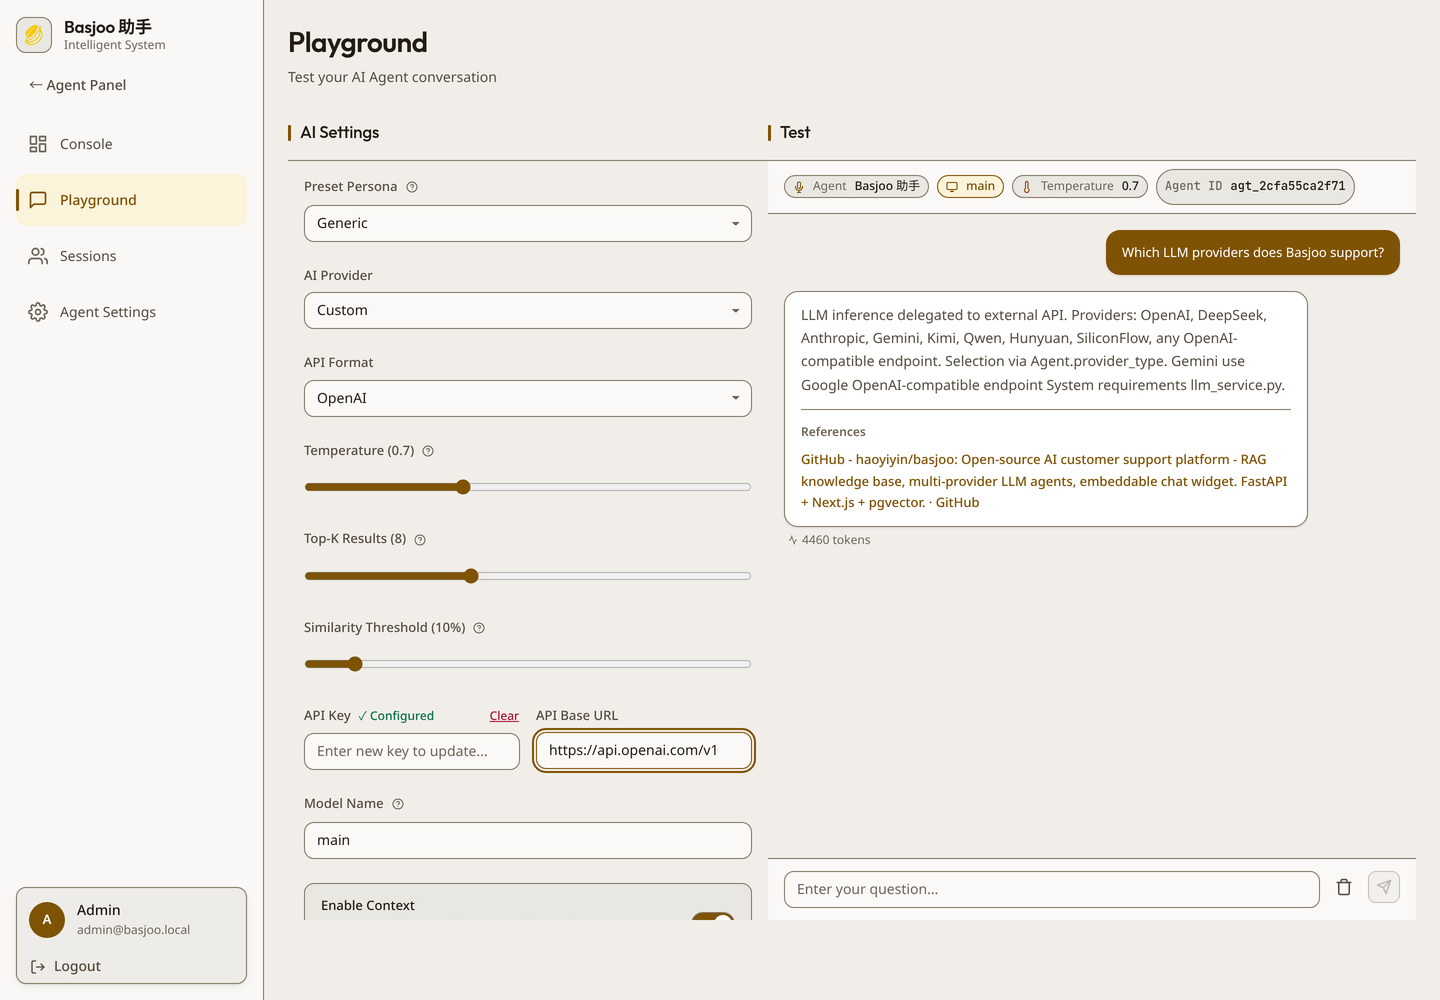
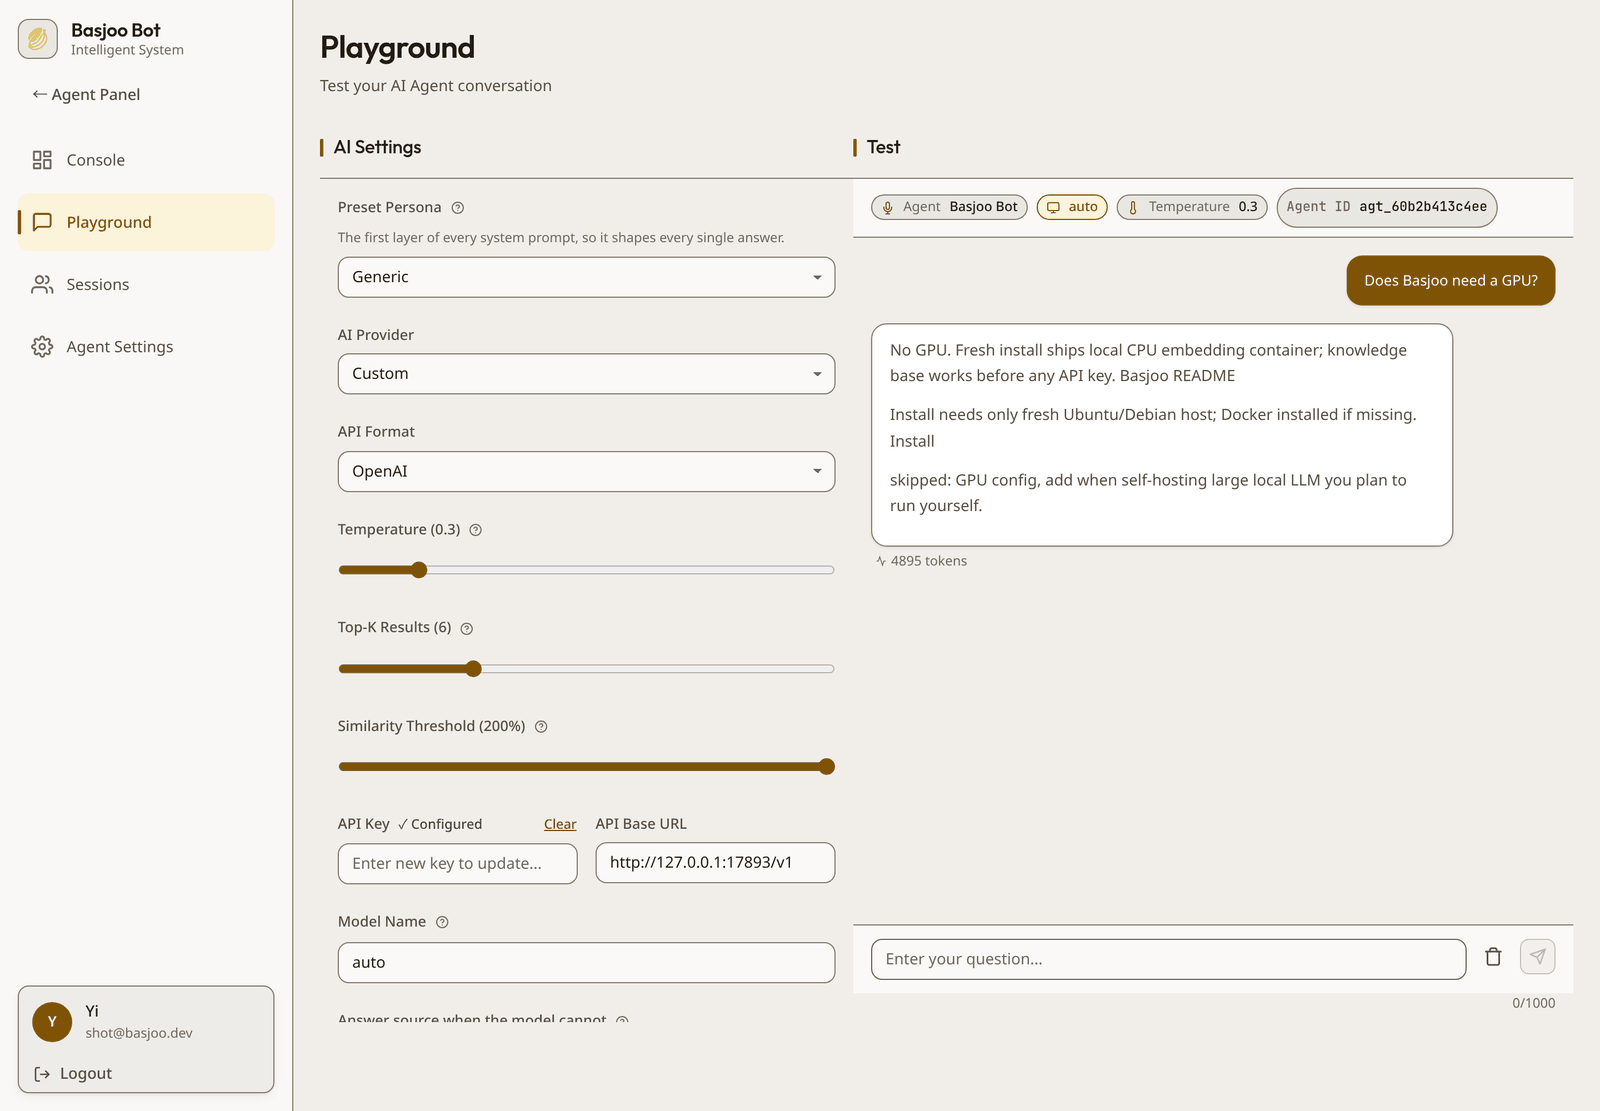
docs: rewrite both READMEs against the shipped product, refresh screenshots
The English and Chinese READMEs had drifted: they described quota-based
limits, a six-group settings page and lead screens that no longer exist,
and every console screenshot predated analytics, Q&A, leads and the
session action bar.

- logo centred above the title, favicons and badges centred beneath it
- features rewritten around what the code actually does now: curated Q&A
  index, prompt layers, analytics with outcome split and unanswered queue,
  lead capture, webhook events and signing, install options, signed visitor
  identity
- new Dashboard section and screenshots in both locales; every other
  console shot and both widget shots regenerated against a seeded demo
  workspace (real model answers, no empty states, no probe leftovers)
- configuration table completed: PUBLIC_BASE_URL, TRUSTED_PROXY_IPS,
  login limits, SMTP, REQUIRE_SECRET_KEY default per profile
- API surface, deployment notes and known limitations re-checked against
  the routers; contributors section removed
- screenshots downscaled to 1600px and palette-compressed (6.2 MB -> 1.5 MB)

diff --git a/README.md b/README.md
@@ -1,19 +1,24 @@
-# Basjoo
+<p align="center"><img src="resource/logo.png" width="112" alt="Basjoo"></p>
 
-[![Docker](https://img.shields.io/badge/Docker-2496ED?logo=docker&logoColor=white)](https://www.docker.com/)
-[![FastAPI](https://img.shields.io/badge/FastAPI-009688?logo=fastapi&logoColor=white)](https://fastapi.tiangolo.com/)
-[![Vite](https://img.shields.io/badge/Vite-646CFF?logo=vite&logoColor=white)](https://vite.dev/)
-[![React](https://img.shields.io/badge/React_18-61DAFB?logo=react&logoColor=black)](https://react.dev/)
-[![Python](https://img.shields.io/badge/Python-3776AB?logo=python&logoColor=white)](https://www.python.org/)
-[![TypeScript](https://img.shields.io/badge/TypeScript-3178C6?logo=typescript&logoColor=white)](https://www.typescriptlang.org/)
-[![SQLite](https://img.shields.io/badge/SQLite-003B57?logo=sqlite&logoColor=white)](https://www.sqlite.org/)
-[![Qdrant](https://img.shields.io/badge/Qdrant-Vector_Search-DC244C)](https://qdrant.tech/)
-[![License: MIT](https://img.shields.io/badge/License-MIT-yellow.svg)](LICENSE)
+<h1 align="center">Basjoo</h1>
 
-English | [简体中文](README.zh-CN.md)
+<p align="center">
+<a href="https://www.docker.com/"><img src="https://img.shields.io/badge/Docker-2496ED?logo=docker&logoColor=white" alt="Docker"></a>
+<a href="https://fastapi.tiangolo.com/"><img src="https://img.shields.io/badge/FastAPI-009688?logo=fastapi&logoColor=white" alt="FastAPI"></a>
+<a href="https://vite.dev/"><img src="https://img.shields.io/badge/Vite-646CFF?logo=vite&logoColor=white" alt="Vite"></a>
+<a href="https://react.dev/"><img src="https://img.shields.io/badge/React_18-61DAFB?logo=react&logoColor=black" alt="React 18"></a>
+<a href="https://www.python.org/"><img src="https://img.shields.io/badge/Python-3776AB?logo=python&logoColor=white" alt="Python"></a>
+<a href="https://www.typescriptlang.org/"><img src="https://img.shields.io/badge/TypeScript-3178C6?logo=typescript&logoColor=white" alt="TypeScript"></a>
+<a href="https://www.sqlite.org/"><img src="https://img.shields.io/badge/SQLite-003B57?logo=sqlite&logoColor=white" alt="SQLite"></a>
+<a href="https://qdrant.tech/"><img src="https://img.shields.io/badge/Qdrant-Vector_Search-DC244C" alt="Qdrant"></a>
+<a href="LICENSE"><img src="https://img.shields.io/badge/License-MIT-yellow.svg" alt="License: MIT"></a>
+</p>
+
+<p align="center">English | <a href="README.zh-CN.md">简体中文</a></p>
 
 Basjoo is a self-hosted AI customer-support platform: it turns a website plus a set of documents into a
-support agent you can embed anywhere, and gives you an admin console to run it.
+support agent you can embed anywhere, and gives you a console to run it — analytics, a session transcript
+wall, human takeover, a Q&A index and lead capture, all in one box you own.
 
 ## Install
 
@@ -29,8 +34,8 @@ Other distributions work too — **if Docker Engine with the Compose plugin, `gi
 installed**, the script skips package setup and deploys; otherwise it stops and tells you what to install.
 Prefer to drive Compose yourself? See [Docker Compose by hand](#docker-compose-by-hand).
 
-- **FastAPI backend** (`backend/`) — agents, knowledge bases, RAG retrieval, SSE chat, auth, workspace resource limits, schedulers
-- **Vite SPA admin console** (`frontend-nextjs/` — the directory name is left over from the former Next.js app)
+- **FastAPI backend** (`backend/`) — agents, knowledge bases, RAG retrieval, SSE chat, curated Q&A, leads, analytics, webhooks, auth, schedulers
+- **Vite SPA console** (`frontend-nextjs/` — the directory name is left over from the former Next.js app)
 - **Embeddable chat widget** (`widget/`) — one `<script>` tag, talks to the backend over HTTP + SSE
 - **Retrieval stack** — Qdrant for vectors, SQLite for application data, Redis for rate limiting, and a
   crawl4ai fetcher container (`basjoo-crawler`) that renders pages in a headless browser
@@ -45,8 +50,7 @@ works before you own any API key. **No GPU is needed.**
   independently of any agent, and a KB can outlive every agent that used it. Sources (URLs, uploaded files)
   belong to the KB, not to the agent.
 - **Two ingestion paths per KB.** Crawl one page, crawl a whole site (depth + page cap), or upload files
-  (`txt`, `md`, `html`, `pdf`, `docx`, `xlsx`; up to 5 files and 20 MB per file per request). Optional
-  auto-refetch keeps web sources fresh on a schedule.
+  (`txt`, `md`, `html`, `pdf`, `docx`, `xlsx`; up to 5 files and 20 MB per file per request).
 - **Per-KB embeddings.** `local` (bundled TEI container), `jina`, `siliconflow`, or any `custom`
   OpenAI-compatible endpoint. The vector width is measured with a real embedding call when the KB is
   created, so the collection and the provider can never silently disagree.
@@ -57,11 +61,36 @@ works before you own any API key. **No GPU is needed.**
   configurable restricted reply when a provider fails. No provider key at all? Curate Q&A pairs with
   keywords and flip `fallback_mode` (default `off`) to `keyword`: the bot answers matched questions with
   **no model and no API key**, marked `mode: "scripted"`; a miss falls back to the restricted reply.
+- **A curated Q&A index per KB.** Pairs are embedded on their own and matched before any retrieved passage,
+  so a correction takes effect without a reindex. Bulk import, a "try a message" tester that shows the score
+  and the matched keywords, per-pair hit counts, and a one-click "revise this answer" on any assistant turn
+  that writes a new pair straight onto the bound KB.
+- **Prompt layers you can edit.** Persona and model in the AI settings pane, `fixed_facts` for the facts the
+  bot must never contradict, ordered procedures for multi-step flows — each reaching the prompt in its own
+  position, never as a retraining of the model.
+- **Analytics that say what to fix.** Sessions, messages, visitors, leads, handoffs, unanswered questions,
+  thumbs-down and the positive-feedback rate over 24 h / 7 d / 30 d / 90 d, each with a delta against the
+  previous window and CSV export. Conversations are classified when they end (resolved, abandoned,
+  escalated, could not answer), and the unanswered queue groups the same question so you can turn it into a
+  Q&A pair.
+- **Lead capture.** `POST /api/v1/leads` is a public, origin-checked route that writes one lead per session
+  (idempotent, so a refresh edits instead of duplicating) with name, email, phone, message, page URL and a
+  `contacted` flag; a `prechat` block on a chat request lands the same way. Leads are counted on the
+  dashboard and listed through the admin API — there is no dedicated lead screen in the console yet.
 - **Human takeover.** Operators watch live sessions in the console and jump in; the widget polls for the
-  human reply and hands the conversation over.
-- **A widget that respects its host.** Per-agent origin whitelist, visitor/session persisted in
-  `localStorage`, locale-aware copy (English / Chinese), 90-second stream timeout with one retry.
-- **Bilingual admin UI** (English / 简体中文) on a warm, single-accent design system that holds up at 375 px.
+  human reply and hands the conversation over. Reply without takeover, release back to the bot, resolve, or
+  reopen a resolved session. Business hours decide when the bot is off duty, and the away message is shown
+  but never written into the transcript.
+- **A widget that respects its host.** Per-agent origin whitelist, three display modes (floating bubble,
+  inline container, iframe), path exclusions, a traffic percentage that is decided once per visitor, entry
+  cards and starters, `localStorage` visitor/session, locale-aware copy (English / Chinese), 90-second stream
+  timeout with one retry, and a signed visitor identity (`window.Basjoo.identify()`) for hosts that know who
+  is logged in.
+- **Outbound webhooks.** Seven events (`session.created`, `session.closed`, `message.created`,
+  `message.unanswered`, `handoff.requested`, `lead.created`, `document.indexed`), queued in the same
+  transaction as the change, signed with `X-Basjoo-Signature: sha256=<hmac>` over the exact bytes sent, and
+  retried with backoff — a slow receiver never blocks a chat reply.
+- **Bilingual console** (English / 简体中文) on a warm, single-accent design system that holds up at 375 px.
 
 ## Screenshots
 
@@ -73,8 +102,8 @@ One table for every agent: its knowledge base, last update, status and actions.
 
 ### Knowledge base
 
-Sources live on the KB: crawl controls, the URL list with fetch and index status, and the uploaded files
-with their parsed chunk counts.
+Sources live on the KB: crawl controls, the URL list with fetch and index status, the uploaded files with
+their parsed chunk counts, and the curated Q&A index that answers ahead of retrieval.
 
 ![Knowledge base detail](resource/screenshots/admin/en-US/knowledge-base.png)
 
@@ -86,17 +115,24 @@ the curated keyword path, so you can test it before configuring any provider key
 
 ![Playground](resource/screenshots/admin/en-US/playground.png)
 
-### Sessions and human takeover
+### Session console
 
-Every visitor session with its transcript, plus a takeover control for the ones a bot should not finish
-alone.
+Every visitor session with its transcript, and the actions a bot should not take alone: reply, takeover,
+release, resolve, reopen, email the transcript, delete the visitor's data.
 
 ![Sessions center](resource/screenshots/admin/en-US/sessions.png)
 
+### Dashboard
+
+Eight tiles with a delta against the previous window, the outcome split for finished conversations, and the
+questions that went unanswered — each row links back to the message that produced it.
+
+![Dashboard](resource/screenshots/admin/en-US/dashboard.png)
+
 ### Agent settings and embed code
 
-Widget title, colour, greeting, history retention, origin whitelist and per-minute limit — together with
-the embed snippet to paste into your site.
+Five groups in prompt order — the AI, its material, handoff, install, outbound webhooks — with the display
+mode, entry cards, starters and the embed snippet to paste into your site.
 
 ![Agent settings](resource/screenshots/admin/en-US/agent-settings.png)
 
@@ -166,7 +202,7 @@ browser ──▶ widget / admin SPA
                  │  HTTP + SSE
                  ▼
             nginx (prod) ──▶ FastAPI backend ──▶ Qdrant        (vectors, one collection per KB)
-                                  │        └──▶ SQLite        (agents, KBs, documents, sessions)
+                                  │        └──▶ SQLite        (agents, KBs, documents, sessions, leads)
                                   ├──────────▶ Redis         (rate limits)
                                   ├──────────▶ basjoo-crawler (crawl4ai, headless Chromium)
                                   ├──────────▶ local-embed   (TEI, CPU embeddings)
@@ -187,13 +223,13 @@ pointer — the KB, its documents, chunks and URL sources survive.
 ### Chat
 
 `POST /api/v1/chat/stream` runs in two phases on purpose: a short database phase (resolve agent → origin
-whitelist → session → rate limit → load history → retrieve context), then a streaming phase that
-holds no database connection while the provider generates. The event names are `sources`, `content`,
-`thinking_done`, `done` and `error`. A missing provider key is an explicit `400 API_KEY_MISSING`, never a
-silent mock answer — unless the agent opts into the scripted keyword path (`fallback_mode="keyword"`),
-where a keyless agent answers matched questions with no model call and a miss falls back to the
-restricted reply. Session ids are enumerable, so the public endpoints require the visitor's own
-`visitor_id` and answer `404 Session not found` for anyone else.
+whitelist → session → rate limit → load history → match curated Q&A → retrieve context), then a streaming
+phase that holds no database connection while the provider generates. The event names are `sources`,
+`content`, `thinking_done`, `done` and `error`. A missing provider key is an explicit `400 API_KEY_MISSING`,
+never a silent mock answer — unless the agent opts into the scripted keyword path
+(`fallback_mode="keyword"`), where a keyless agent answers matched questions with no model call and a miss
+falls back to the restricted reply. Session ids are enumerable, so the public endpoints require the
+visitor's own `visitor_id` and answer `404 Session not found` for anyone else.
 
 One gate decides whether the bot speaks: `services/session_state.answer_gate` requires `status="active"`,
 `mode="ai"` **and** the agent's business hours to be open. Anything else still stores the visitor's message
@@ -202,22 +238,32 @@ and answers nothing, reporting why in `done.no_answer_reason` (`taken_over`, `re
 `away_message` as the visible reply — it is never written to the transcript, so the history does not claim a
 person wrote it. An agent with no business hours (or an unparsable config) is always online.
 
+Every assistant turn carries a `confidence`: the best retrieval score the prompt was built from, or `null`
+when nothing was retrieved. An answer that matches no passage — or that equals a fallback sentence — is
+flagged `is_unanswered`, which is what the dashboard's triage queue and the "add to Q&A" button read.
+
 ### Widget
 
 `widget/src/BasjooWidget.tsx` bootstraps from `<script src="…/sdk.js?agent_id=agt_…">` (it also accepts
 `agentId` and `api_base`), auto-detects the API base from its own script URL, fetches
-`/api/v1/config:public` for the title, colour and greeting, keeps the visitor and session in `localStorage`,
-streams from `/api/v1/chat/stream`, and polls `/api/v1/chat/messages` (visitor id + `after_id`, assistant
-role only) every 3 s once the first reply lands — that is what surfaces human-takeover messages.
+`/api/v1/config:public` for the title, colour, greeting and install options, keeps the visitor and session in
+`localStorage`, streams from `/api/v1/chat/stream`, and polls `/api/v1/chat/messages` (visitor id +
+`after_id`, assistant role only) every 3 s once the first reply lands — that is what surfaces human-takeover
+messages.
 
 ```html
 <script src="https://your-basjoo-host/sdk.js?agent_id=agt_xxxxxxxxxxxx" async></script>
 ```
 
+The console hands out `/api/v1/agents/{id}/embed.js` instead, which bakes one agent's install config
+(display mode, excluded paths, traffic percentage, cards, starters) into a per-agent loader. A host that
+already knows who is visiting can call `window.Basjoo.identify({ email, hash })` with the HMAC the server
+issued, and the widget uses that signed identity instead of a random one.
+
 ## Configuration
 
 Settings come from environment variables or `.env` (`pydantic-settings`). Every value below has a working
-default.
+default; `docker-compose.yml` sets the ones that differ between the `dev` and `prod` profiles.
 
 | Variable | Default | Purpose |
 |---|---|---|
@@ -227,16 +273,20 @@ default.
 | `QDRANT_API_KEY` | unset | key for a Qdrant that requires auth |
 | `SCRAPLING_SERVICE_URL` | `http://scrapling-service:8001` | fetcher service used by URL ingestion |
 | `SECRET_KEY` / `SECRET_KEY_FILE` | generated → `/app/data/.secret_key` | JWT signing |
-| `ENCRYPTION_KEY` / `ENCRYPTION_KEY_FILE` | generated → `/app/data/.encryption_key` | encrypts provider keys at rest |
+| `ENCRYPTION_KEY` / `ENCRYPTION_KEY_FILE` | generated → `/app/data/.encryption_key` | encrypts provider keys, webhook secrets and identity secrets at rest |
 | `DEFAULT_AGENT_ID` | generated → `/app/data/.agent_id` | pins the default widget agent identity |
-| `ALLOWED_ORIGINS` | empty (dev profile sets `*`) | CORS allowlist; empty means no cross-origin caller |
+| `PUBLIC_BASE_URL` | unset | public origin used to build embed snippets and `/config:public`; unset means trust `X-Forwarded-Host`, then `Host` |
+| `ALLOWED_ORIGINS` | `*` in code, `*` in dev, empty in prod | CORS allowlist; empty means no cross-origin caller |
+| `CORS_ALLOW_NULL_ORIGIN` | `false` | accept `Origin: null` sandboxed iframes |
+| `TRUSTED_PROXY_IPS` | empty, `172.16.0.0/12` in compose | peers whose `X-Forwarded-For` / `X-Real-IP` are believed; empty keys every limiter on the socket peer |
 | `SSRF_PROTECTION_ENABLED` | `false` | block private/link-local resolutions of user-supplied URLs |
 | `LOCAL_EMBEDDING_BASE_URL` | `http://local-embed:80/v1` | endpoint used by `local` knowledge bases |
 | `LOCAL_EMBEDDING_MODEL` | `ibm-granite/granite-embedding-97m-multilingual-r2` | model served there |
 | `RATE_LIMIT_PER_MINUTE` / `RATE_LIMIT_BURST_SIZE` | `1000` / `200` | global limiter |
-| `REQUIRE_SECRET_KEY` | unset | when `true`, refuse to boot with a generated secret (checked by the container entrypoint, not by the app) |
+| `LOGIN_RATE_LIMIT_MAX_ATTEMPTS` / `LOGIN_RATE_LIMIT_WINDOW_SECONDS` | `5` / `300` | failed-login limiter, per IP and per account |
+| `SMTP_HOST` / `SMTP_PORT` / `SMTP_USER` / `SMTP_PASSWORD` / `SMTP_FROM` / `SMTP_USE_TLS` | empty / `587` / … / `true` | transcript email; unset host means the route answers `503` instead of failing a send |
+| `REQUIRE_SECRET_KEY` | unset, `true` in the `prod` compose service | refuse to boot with a generated secret (checked by the container entrypoint, not by the app) |
 | `SERVER_DOMAIN` | unset | nginx canonical host; anything else gets `444` |
-| `CORS_ALLOW_NULL_ORIGIN` | `false` | accept `Origin: null` sandboxed iframes |
 | `LOG_LEVEL` | `INFO` | |
 | `DEBIAN_MIRROR` | `http://deb.debian.org` | build-time apt mirror for the backend and crawler images; change it when a proxy mangles the default |
 
@@ -279,21 +329,26 @@ byte-identical, and `sdk.js` is never hand-edited.
 The console talks to `/api/admin` (login, register, account, users) and `/api/v1`. The routes that matter
 most:
 
-- `GET /health`, `GET /api/v1/config:public`
+- `GET /health`, `GET /api/v1/config:public`, `GET /api/v1/agents/{id}/embed.js`
 - `GET|POST /api/v1/agents`, `POST /api/v1/agents/{id}:pause|:resume`, `DELETE /api/v1/agents/{id}`
 - `GET|PUT /api/v1/agent`, `GET /api/v1/agent:kb-status`
-- `GET|POST /api/v1/knowledge-bases`, `GET|PATCH|DELETE /api/v1/knowledge-bases/{kb_id}`
+- `GET|POST /api/v1/knowledge-bases`, `GET|PATCH|DELETE /api/v1/knowledge-bases/{kb_id}`,
+  `POST /api/v1/knowledge-bases/{kb_id}/reset`
 - `PUT /api/v1/agents/{agent_id}/knowledge-base` — the only way to bind a KB
-- `POST /api/v1/knowledge-bases/{kb_id}/urls:create|:refetch|:discover|:crawl_site|:cancel`
-- `POST /api/v1/knowledge-bases/{kb_id}/files:upload`, `POST …/index:rebuild`
+- `POST /api/v1/knowledge-bases/{kb_id}/urls:create|:refetch|:discover|:crawl_site|:cancel`,
+  `…/files:upload`, `…/index:rebuild`
 - `GET /api/v1/knowledge-bases/{kb_id}/sources:summary`, `…/index:status`
-- `POST /api/v1/chat/stream`, `GET /api/v1/chat/messages`
-- `POST /api/v1/chat/escalate`, `POST /api/v1/chat/release` — the visitor side of handoff
+- `GET|POST /api/v1/knowledge-bases/{kb_id}/qa-items`, `PUT|DELETE …/qa-items/{qa_id}`,
+  `POST …/qa-items:match`, `POST …/qa-items:import`
+- `GET|POST|PUT|DELETE /api/v1/agents/{agent_id}/procedures`, `PUT /api/v1/agents/{agent_id}/fixed-facts`
+- `POST /api/v1/chat/stream`, `GET /api/v1/chat/messages`, `POST /api/v1/chat/escalate|release|feedback`
+- `POST /api/v1/leads`, `GET /api/v1/admin/leads`, `PATCH|GET /api/v1/admin/leads/{id}`
+- `GET /api/v1/admin/analytics`, `GET /api/v1/admin/stats/overview`, `GET /api/v1/admin/stats/export.csv`
 - `GET /api/v1/admin/sessions`, `POST /api/v1/admin/sessions/send`
-- `POST /api/v1/admin/sessions/{id}/takeover|release|reply|resolve|reopen` — `reopen` is the undo of
-  `resolve` (back to `active`/`ai`); it is not part of the original handoff ask, but the session centre
-  renders a Reopen action on resolved rows, so the route is kept and listed here rather than left as an
-  undocumented surface
+- `POST /api/v1/admin/sessions/{id}/takeover|release|reply|resolve|reopen|email-transcript`
+- `GET /api/v1/admin/sessions/unanswered`, `POST …/unanswered/{message_id}:dismiss`,
+  `POST /api/v1/admin/sessions/{id}/revise-answer`, `POST /api/v1/admin/qa/from-message/{message_id}`
+- `DELETE /api/v1/admin/visitors/{visitor_id}` — one visitor's sessions, messages, leads and feedback
 
 The agent-scoped `/api/v1/urls:*`, `/api/v1/files:*` and `/api/v1/index:*` routes still resolve, but they are
 one-release aliases that look the KB up through `agents.kb_id` and answer `409` when the agent is unbound.
@@ -313,6 +368,8 @@ New integrations should use the KB-scoped paths. The full schema is served at `/
 - Existing embeds keep working as long as `backend-data` survives: the agent id is persisted in
   `/app/data/.agent_id`, and `DEFAULT_AGENT_ID` pins a known id when you migrate hosts. Back up
   `/app/data/basjoo.db` and `/app/data/.agent_id` before moving.
+- Set `PUBLIC_BASE_URL` when the console is not reached on the same host visitors use, otherwise the embed
+  snippet falls back to the request's own `Host`.
 - Registering a second admin requires the super-admin token (`POST /api/admin/users`); self-registration is
   first-admin only, and the console has no user-management screen yet.
 
@@ -324,6 +381,12 @@ New integrations should use the KB-scoped paths. The full schema is served at `/
 - Roles (`super_admin`, `admin`, `support`) are enforced by the API; the console exposes account settings and
   per-agent membership, not full admin CRUD.
 - Parsing covers `txt`, `md`, `html`, `pdf`, `docx`, `xlsx`. There is no OCR for scanned PDFs.
+- Workspace quotas cap the agent count, the curated-pair count and the total text size; the URL and file
+  counters report a fixed 500 the services never enforce, and message volume is limited per minute per
+  visitor, not per day.
+- Webhooks are best-effort: queued and retried with backoff, but a permanently failing receiver shows up in
+  the backend log, not as a console alert.
+- Transcript email needs SMTP configured; without it the route answers `503` and the button reports it.
 - `Agent.last_error_code` / `last_error_message` / `last_error_at` are schema fields with no writer and no
   UI yet; failures surface as the restricted reply and in the backend log, not as a console alert.
 
@@ -357,12 +420,6 @@ read it before changing code in those areas.
   embedding server.
 - **[FastAPI](https://fastapi.tiangolo.com/)** and **[Vite](https://vite.dev/)** — backend and console
   toolchains.
-
-## Contributors
-
-<a href="https://github.com/haoyiyin/basjoo/graphs/contributors">
-  <img src="https://contrib.rocks/image?repo=haoyiyin/basjoo" />
-</a>
 
 ## Star history
 
